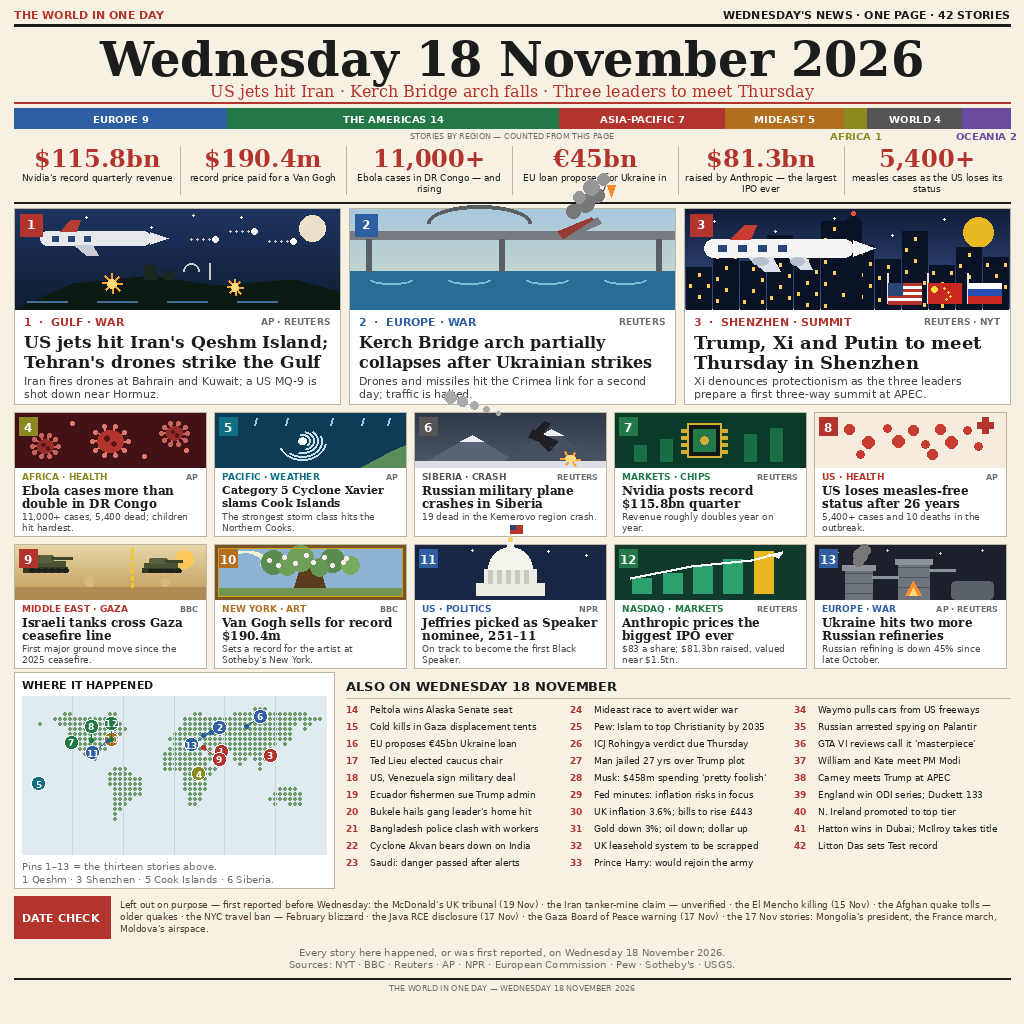
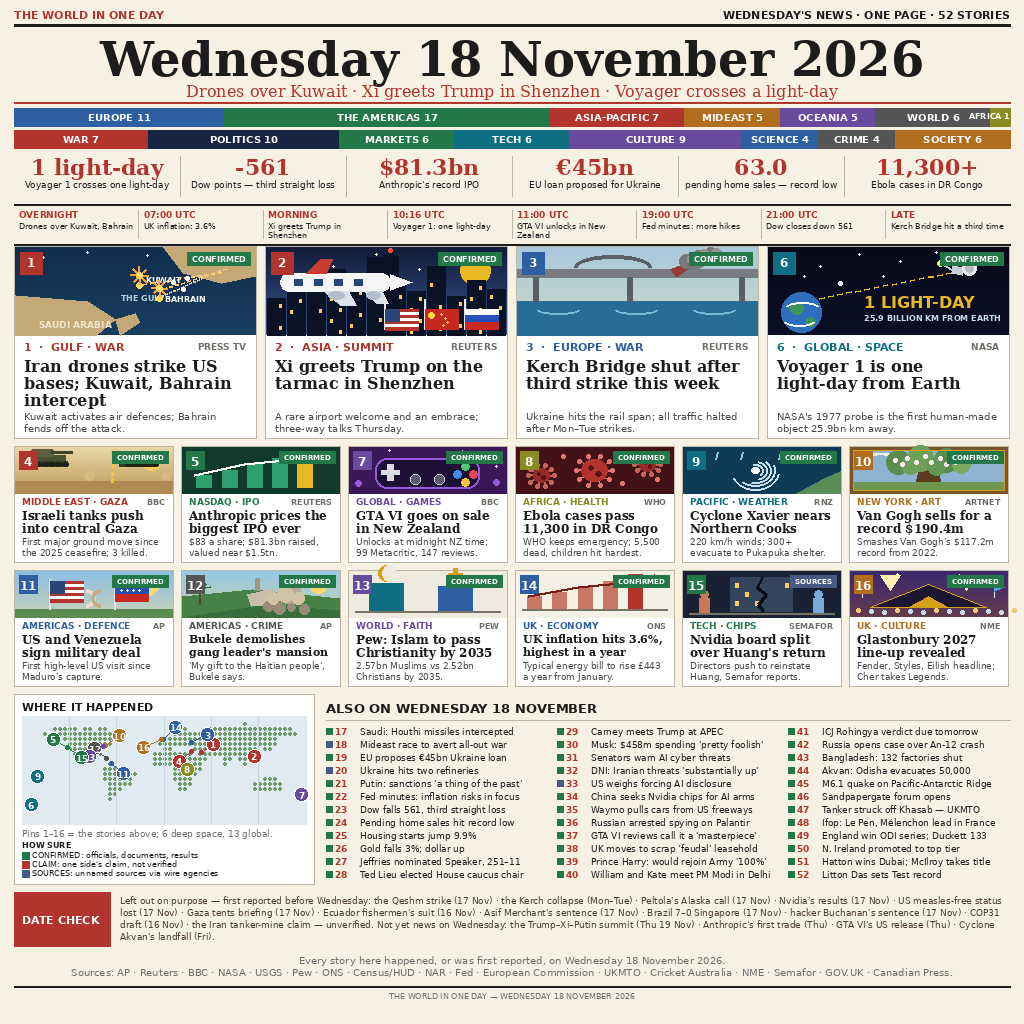
Add files via upload

diff --git a/main.py b/main.py
@@ -1,8 +1,7 @@
 #!/usr/bin/env python3
-"""make.fun entrypoint: copy entry.png to the output directory.
-
-Stdlib only. No network. The program writes exactly one image:
-entry.png (1024x1024, the day's world news on one page).
+"""Entry program for the make.fun news-image-20261118 bounty.
+Copies entry.png to the output directory make.fun provides.
+Standard library only; no network access.
 """
 import os
 import shutil
@@ -10,20 +9,16 @@ import sys
 
 
 def main():
-    here = os.path.dirname(os.path.abspath(__file__))
-    src = os.path.join(here, "entry.png")
     out_dir = os.environ.get("MAKEFUN_OUTPUT_DIR") or "/output"
-    os.makedirs(out_dir, exist_ok=True)
+    src = os.path.join(os.path.dirname(os.path.abspath(__file__)), "entry.png")
     dst = os.path.join(out_dir, "entry.png")
+    os.makedirs(out_dir, exist_ok=True)
     shutil.copyfile(src, dst)
-    # post-copy verification: the output must exist and match the source size
-    if not os.path.isfile(dst):
-        raise SystemExit(f"copy failed: {dst} does not exist")
-    if os.path.getsize(dst) != os.path.getsize(src):
-        raise SystemExit(
-            f"copy failed: size mismatch {os.path.getsize(dst)} != {os.path.getsize(src)}"
-        )
-    print(f"verified {dst} ({os.path.getsize(dst)} bytes)")
+    # post-copy verification: the destination must exist and match the
+    # source size; otherwise fail loudly instead of shipping a broken entry.
+    if not os.path.exists(dst) or os.path.getsize(dst) != os.path.getsize(src):
+        sys.exit("entry.png was not copied correctly")
+    print(f"wrote {dst}")
 
 
 if __name__ == "__main__":
